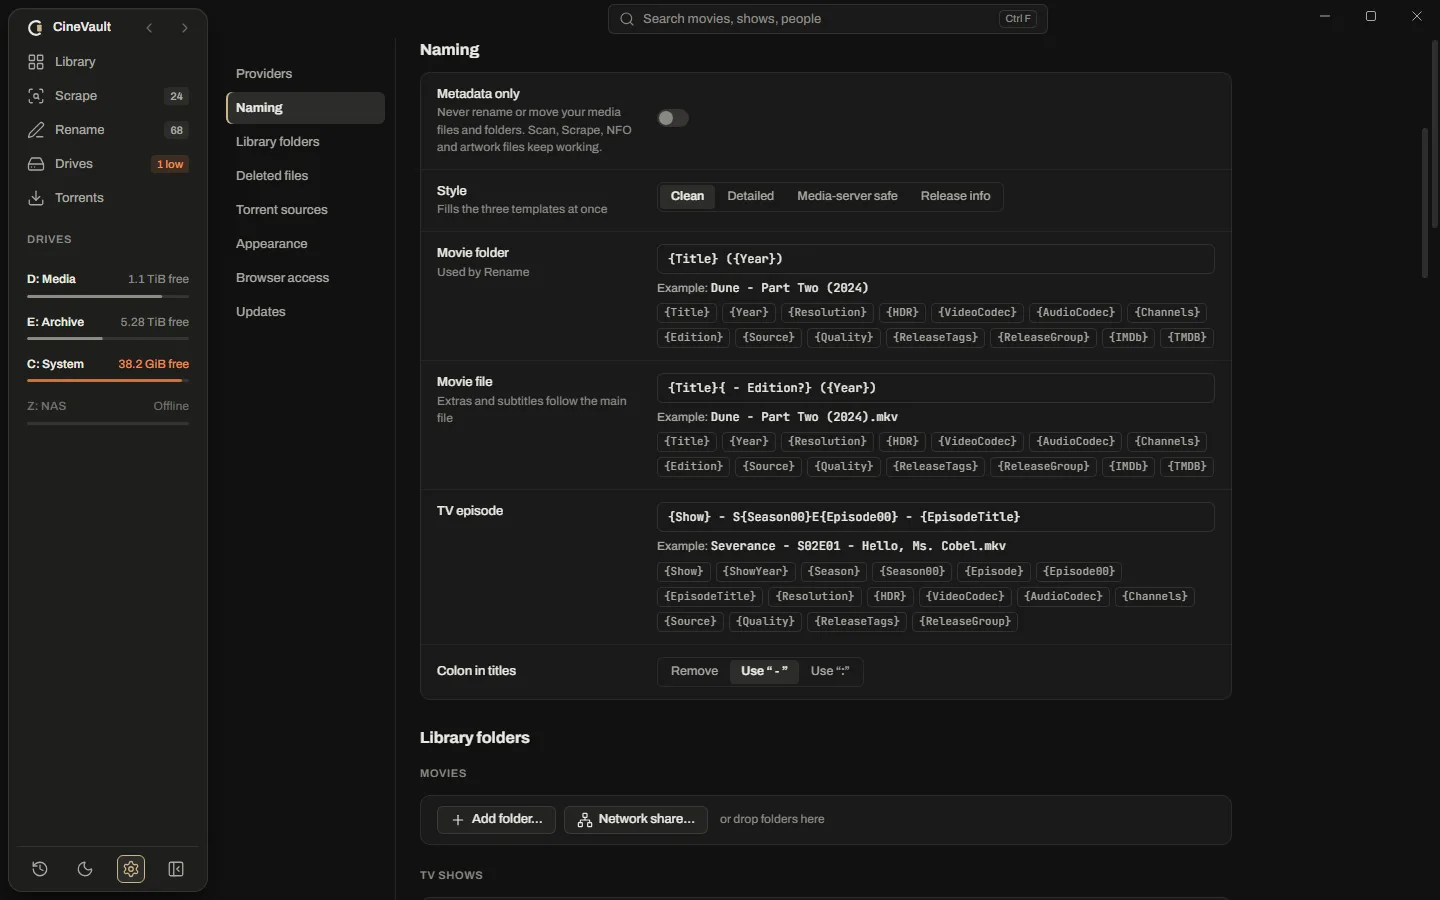
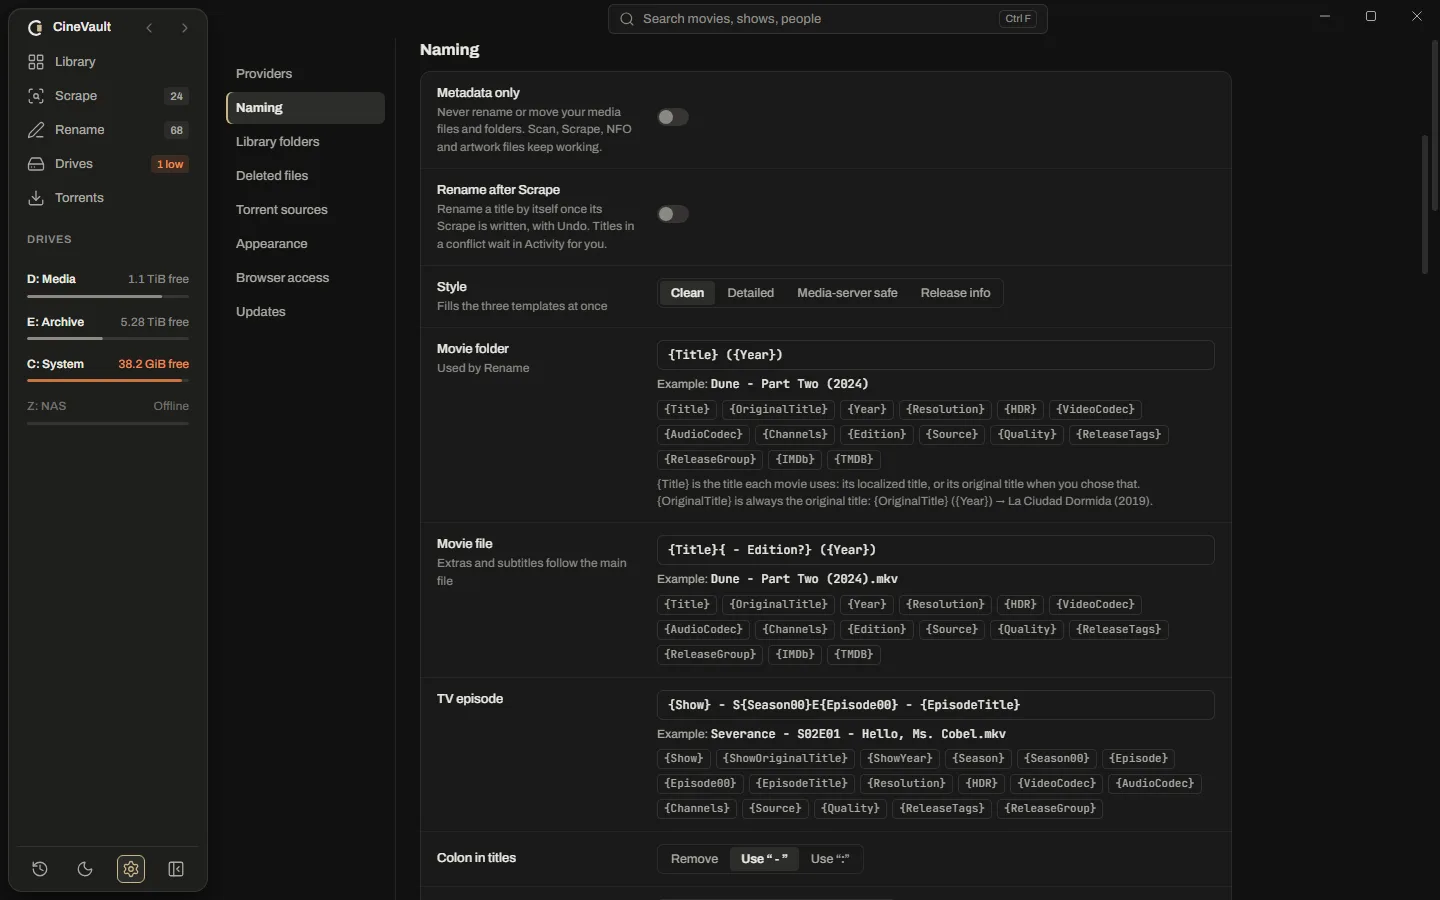
docs(release): refresh the screenshots, website and README for 1.7.0

diff --git a/site/index.html b/site/index.html
@@ -55,13 +55,13 @@
   <section class="hero" aria-labelledby="hero-title">
     <div class="wrap">
       <div class="hero-copy">
-        <p class="eyebrow"><span class="pill">New</span> Version <span data-version>1.5.0</span> for Windows and Linux</p>
+        <p class="eyebrow"><span class="pill">New</span> Version <span data-version>1.7.0</span> for Windows and Linux</p>
         <h1 id="hero-title">Every title<br>in its place.</h1>
         <p class="lede">A fast desktop library manager for your movies and TV shows. CineVault reads your folders, fills in details, ratings and artwork, writes complete NFO files for Kodi, Jellyfin and Emby, and tidies every name, with Undo for all of it.</p>
         <div class="cta">
           <a class="btn btn-lg" data-dl href="https://github.com/mustafayevt/CineVault/releases/latest/download/CineVault-setup-x64.exe">
             <svg viewBox="0 0 24 24" aria-hidden="true"><path d="M12 3.75v11.5M7.25 10.5 12 15.25l4.75-4.75M4.75 19.25h14.5"/></svg>
-            <span class="btn-text"><span data-dl-label>Download for Windows</span><small data-dl-note>Version <span data-version>1.5.0</span>, <span data-size>18.5 MB</span></small></span>
+            <span class="btn-text"><span data-dl-label>Download for Windows</span><small data-dl-note>Version <span data-version>1.7.0</span>, <span data-size>18.5 MB</span></small></span>
           </a>
           <a class="btn btn-quiet btn-lg" href="#flow">See how it works</a>
         </div>
@@ -114,6 +114,7 @@
             <li>Automatic collections, with the films you are missing</li>
             <li>Problems filter for unmatched titles and missing files</li>
             <li>Copies filter for the same movie twice: compare them side by side and keep the better one</li>
+            <li>Needs fixing filter for titles with no poster, fan art, clear logo or plot, to fix them in one go</li>
           </ul>
         </div>
         <figure class="window reveal">
@@ -212,10 +213,11 @@
         <div class="feature-copy">
           <p class="kicker">Rename</p>
           <h2 id="f-rename">Tidy names, and nothing moves until you say so</h2>
-          <p>The preview strikes out the words that go and marks the ones that come, and a clash with another title is settled right on its row. Nothing is renamed until you apply it, and History can put it back.</p>
+          <p>The preview strikes out the words that go and marks the ones that come, and a clash with another title is settled right on its row. Nothing is renamed until you apply it, and History can put it back. Or switch on Rename after Scrape, and a title whose new names fit is renamed as soon as it is scraped, with Undo.</p>
           <ul class="facts">
             <li>A word-level preview of every folder and file</li>
             <li>Conflicts settled on their own row, held-back titles marked</li>
+            <li>Progress in the sidebar and a toast with Undo when it is done</li>
           </ul>
         </div>
         <figure class="window reveal">
@@ -232,7 +234,7 @@
         <div class="feature-copy">
           <p class="kicker">Naming styles</p>
           <h2 id="f-naming">Pick a style, or write your own</h2>
-          <p>In Settings, one Style control fills the movie folder, movie file and TV episode templates at once: Clean, Detailed, Media-server safe or Release info, which keeps the release group and tags of the download. Edit any template and it becomes your own; choosing a style over your own templates asks first. Prefer your own names? Metadata only writes NFOs and artwork and never renames.</p>
+          <p>In Settings, one Style control fills the movie folder, movie file and TV episode templates at once: Clean, Detailed, Media-server safe or Release info, which keeps the release group and tags of the download. Edit any template and it becomes your own; choosing a style over your own templates asks first. Prefer your own names? Metadata only writes NFOs and artwork and never renames. Each title can go by its original or its localized title, and you choose the file name of every artwork type, such as <code>poster.jpg</code>, <code>folder.jpg</code> or the movie's name in front.</p>
           <div class="strip" role="group" aria-label="Example: the folder Dune.Part.Two.2024.2160p.WEB-DL.DV.HDR10.TrueHD.Atmos.7.1-GRP renamed with a naming style">
             <div class="strip-row"><span class="strip-tag">before</span><code class="strip-from"><span>Dune</span><s>.</s><span>Part</span><s>.</s><span>Two</span><s>.2024.2160p.WEB-DL.DV.HDR10.TrueHD.Atmos.7.1-GRP</s></code></div>
             <div class="strip-row"><span class="strip-tag">after</span><code class="strip-to" data-style-out aria-live="polite">Dune - Part Two (2024)</code></div>
@@ -248,7 +250,7 @@
         <figure class="window reveal">
           <picture>
             <source srcset="img/naming-light.webp" media="(prefers-color-scheme: light)">
-            <img src="img/naming-dark.webp" width="1440" height="900" loading="lazy" alt="Settings, Naming: the Metadata only switch, the Style control with Clean, Detailed, Media-server safe and Release info, then the movie folder, movie file and TV episode templates, each with a live example and buttons for its fields, and the choice for colons in titles">
+            <img src="img/naming-dark.webp" width="1440" height="900" loading="lazy" alt="Settings, Naming: the Metadata only and Rename after Scrape switches, the Style control with Clean, Detailed, Media-server safe and Release info, then the movie folder, movie file and TV episode templates, each with a live example and buttons for its fields (Original title among them), and the choice for colons in titles">
           </picture>
         </figure>
       </div>
@@ -264,12 +266,13 @@
             <li>Copy, verify, then the originals to the Recycle Bin or Trash</li>
             <li>Quality and size of every title, per drive</li>
             <li>Offline drives keep their titles until they come back</li>
+            <li>Scan one folder or one title instead of the whole library, with progress in titles</li>
           </ul>
         </div>
         <figure class="window reveal">
           <picture>
             <source srcset="img/drives-light.webp" media="(prefers-color-scheme: light)">
-            <img src="img/drives-dark.webp" width="1440" height="900" loading="lazy" alt="The Drives page: four drives with their free space, one low on space and one offline, and the titles of the Media drive listed biggest first with quality, size and folder">
+            <img src="img/drives-dark.webp" width="1440" height="900" loading="lazy" alt="The Drives page: four drives with their free space, one low on space and one offline, a Scan this folder button next to each library folder, and the titles of the Media drive listed biggest first with quality, size and folder">
           </picture>
         </figure>
       </div>
@@ -389,7 +392,7 @@
     <div class="wrap">
       <header class="section-head">
         <p class="kicker">Download</p>
-        <h2 id="dl-title">Get CineVault <span data-version>1.5.0</span></h2>
+        <h2 id="dl-title">Get CineVault <span data-version>1.7.0</span></h2>
         <p class="section-lede">Free and open source. Updates arrive inside the app, signed with the project key.</p>
       </header>
       <div class="dl-grid">

diff --git a/README.md b/README.md
@@ -25,17 +25,17 @@
 - **TV shows.** Show, season and episode pages with missing and unaired episodes, specials and season artwork.
 - **Ratings side by side.** TMDB and IMDb with no key, plus Rotten Tomatoes, Metacritic, Letterboxd and Trakt with your own free OMDb or MDBList key.
 - **Search as you type.** Type in the search box and matching titles appear at once, grouped, with your recent searches and See all results. Punctuation, spacing, accents and small typos do not matter; messy release names still match, with a confidence score for every candidate.
-- **Library your way.** A poster grid with a size you choose, or a table with a Stage column whose columns you can move and resize.
+- **Library your way.** A poster grid with a size you choose, or a table with a Stage column whose columns you can move and resize. The Needs fixing filter lists the titles with no poster, fan art, clear logo or plot, or not scraped yet, so you can fix them in one go.
 - **Copies of a movie.** If the same movie is in the library twice (a 4K and a 1080p download, say), the Copies filter lists them, the Movie page has a tab for each copy, Compare puts them side by side with the better value of each row marked, and Keep this one deletes the other the way Delete always does. Keep both leaves them alone, and Rename gives each its own name, such as `- 2160p` and `- 1080p`.
 - **HDR details.** The Technical card shows the exact HDR format (Dolby Vision profile, HDR10+, HDR10, HLG), audio and file details read from the file.
-- **Drives with safe moves.** Free space per drive and Move to another drive: copy, verify, and only then do the originals go to the Recycle Bin (the Trash on Linux).
+- **Drives with safe moves.** Free space per drive and Move to another drive: copy, verify, and only then do the originals go to the Recycle Bin (the Trash on Linux). Scan this folder and Scan again read one library folder or one title instead of every drive, and a scan counts in titles with the time left.
 - **Deleted files handled your way.** Delete sends a title to the Recycle Bin or Trash, a trash folder on each drive or a trash folder you choose, and old trash can be emptied automatically. Choosing "Delete permanently" there makes Delete erase a title, after a Yes or No that lists what goes.
 - **Activity, History and Undo.** Renames, moves, deletes, artwork and match changes are listed in History on the Activity page, each with Undo. Anything that needs you, such as a move that did not finish or a rejected API key, waits above it under Needs attention with its fix.
 - **Collections.** A collection appears on its own once you own two or more films of the same set.
 - **Torrent search hand-off.** Pick a title from the suggestions, search its releases from inside the app, narrow them by words in their names (`remux atmos -x265`) and compare each with what you have, side by side; for a show, see which releases fill your missing episodes. CineVault hands the one you pick to your own torrent app. You are responsible for what you download and share.
 - **Wishlist.** Add a movie, a season or the next new episode of a show with the release you want (resolution, source, HDR, a size range, seeders). CineVault checks for it when it opens, shows new matches on Torrents with a count, and marks the title done once a copy that meets what you asked for arrives. A title you already have keeps being checked, with what you have shown on its entry. It never sends anything by itself.
 - **Desktop feel.** Light and dark themes that follow the system, zoom from 80% to 150%, keyboard chords for everyday actions, and a `cinevault` command line.
-- **Naming styles.** One Style control in Settings › Naming (Clean, Detailed, Media-server safe, Release info) fills the movie folder, movie file and TV episode templates; edit any of them to make your own. Release tokens keep the release group, tags and quality from the download's name. A Metadata only switch leaves every file and folder name alone and only writes NFOs and artwork.
+- **Naming styles.** One Style control in Settings › Naming (Clean, Detailed, Media-server safe, Release info) fills the movie folder, movie file and TV episode templates; edit any of them to make your own. Release tokens keep the release group, tags and quality from the download's name. A Metadata only switch leaves every file and folder name alone and only writes NFOs and artwork; Rename after Scrape (off by default) renames a title as soon as it is scraped when its new names fit, with Undo. Each title can use its original or its localized title, and the file names of every artwork type are yours to choose (`poster.jpg`, `folder.jpg`, the movie's name in front, or several at once).
 - **Private by design.** You bring your own provider keys, kept in the OS credential store (the system keyring on Linux). No account, no telemetry.
 
 ## Getting started
@@ -135,7 +135,7 @@ command line exits with code 2 instead of writing behind the server's back.
     <td width="50%" valign="top"><img src=".github/assets/rename.png" alt="The Rename page previewing renames and conflicts, with removed words struck through and added words marked"><br><sub>Rename: a word-level preview, conflicts resolved on the row</sub></td>
   </tr>
   <tr>
-    <td width="50%" valign="top"><img src=".github/assets/naming.png" alt="Settings, Naming, with the Style control and the movie folder, movie file and TV episode templates"><br><sub>Naming styles: one choice fills all three templates</sub></td>
+    <td width="50%" valign="top"><img src=".github/assets/naming.png" alt="Settings, Naming, with the Style control and the movie folder, movie file and TV episode templates"><br><sub>Naming: styles, artwork file names and Rename after Scrape</sub></td>
     <td width="50%" valign="top"><img src=".github/assets/drives.png" alt="The Drives page with free space per drive and the titles of one drive, biggest first"><br><sub>Drives: free space and safe moves between drives</sub></td>
   </tr>
   <tr>
